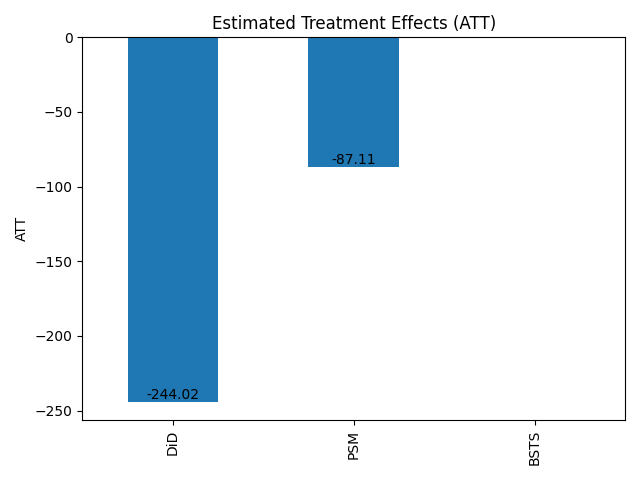
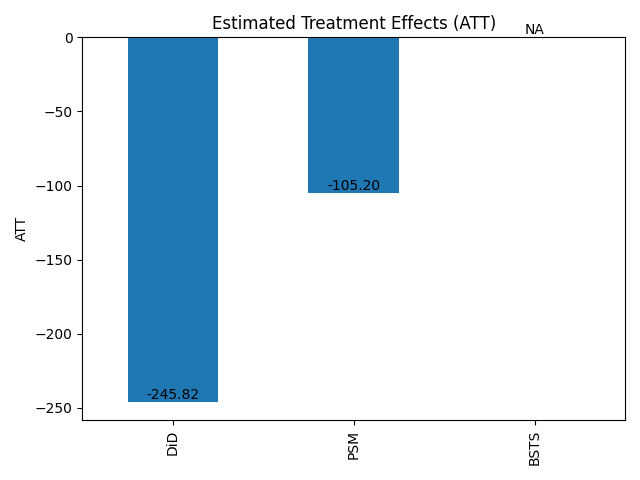
Update analysis outputs (results, figure, report)

diff --git a/reports/report.html b/reports/report.html
@@ -1,28 +1,21 @@
-<!doctype html>
-<html><head><meta charset="utf-8"><title>Causal Analysis Report</title>
+<!doctype html><html><head><meta charset="utf-8"><title>Causal Analysis Report</title>
 <style>
-body{font-family:Segoe UI,Arial,sans-serif;margin:24px;color:#111}
-h1,h2{margin:0 0 12px} .card{border:1px solid #eee;border-radius:12px;padding:16px;margin:16px 0}
-.table{border-collapse:collapse;width:100%} .table td,.table th{border-bottom:1px solid #eee;padding:8px 6px;text-align:left}
+body{font-family:Segoe UI,Arial,sans-serif;margin:24px}
+.card{border:1px solid #eee;border-radius:12px;padding:16px;margin:16px 0}
+.table{border-collapse:collapse;width:100%}
+.table td,.table th{border-bottom:1px solid #eee;padding:8px 6px;text-align:left}
 img{max-width:100%;height:auto;border:1px solid #eee;border-radius:8px}
 .badge{background:#f5f5f5;border-radius:999px;padding:4px 10px;font-size:12px}
-</style></head>
-<body>
-  <h1>Ontario Health — Causal Analysis</h1>
-  <div class="badge">Generated: 2025-10-04 17:48:40</div>
-
-  <div class="card">
-    <h2>ATT Summary</h2>
-    <table class="table">
-      <tr><th>Method</th><th>ATT</th></tr>
-      <tr><td>DiD</td><td>-244.0241348794655</td></tr>
-      <tr><td>PSM</td><td>-87.11058435173477</td></tr>
-      <tr><td>BSTS</td><td>NA</td></tr>
-    </table>
-  </div>
-
-  <div class="card">
-    <h2>Figure</h2>
[1 lines of base64/hex data omitted]
-  </div>
-</body></html>
+</style></head><body>
+<h1>Ontario Health — Causal Analysis</h1>
+<div class="badge">Generated: 2025-10-04 18:24:13</div>
+<div class="card"><h2>ATT Summary</h2>
+<table class="table">
+<tr><th>Method</th><th>ATT</th></tr>
+<tr><td>DiD</td><td>-245.817094</td></tr>
+<tr><td>PSM</td><td>-105.197269</td></tr>
+<tr><td>BSTS</td><td>NA</td></tr>
+</table></div>
+<div class="card"><h2>Figure</h2>
[1 lines of base64/hex data omitted]
+</div></body></html>
